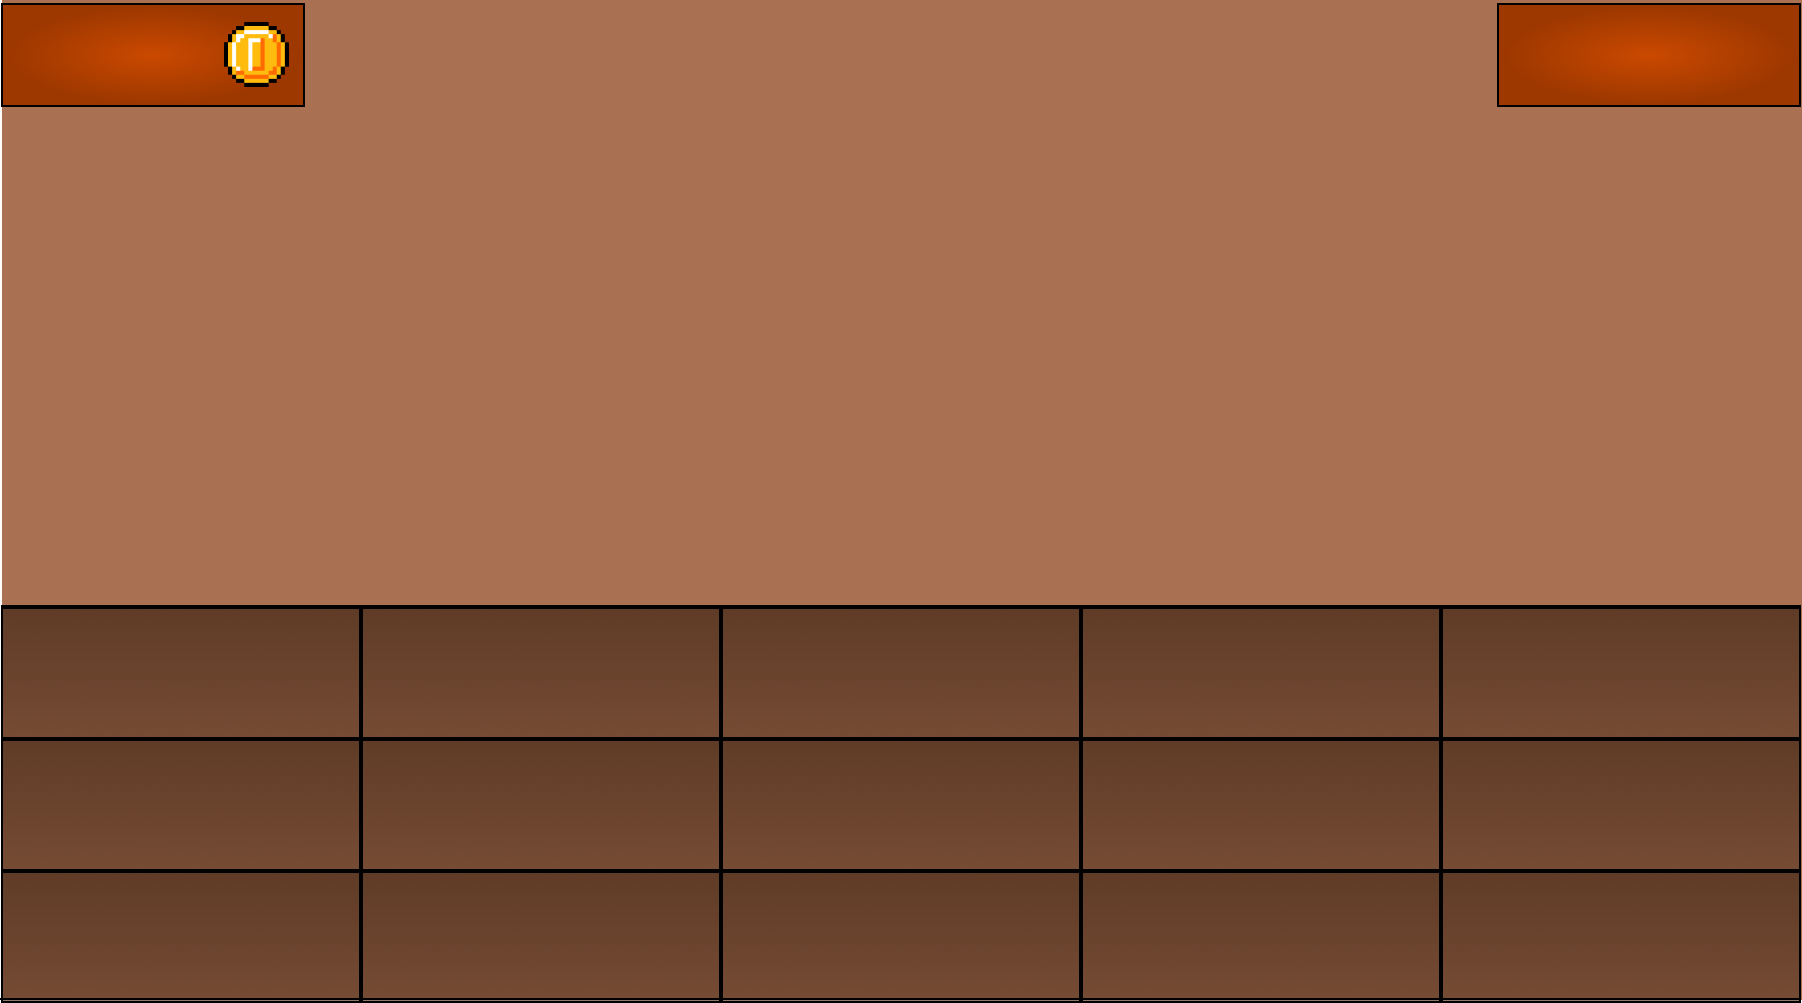
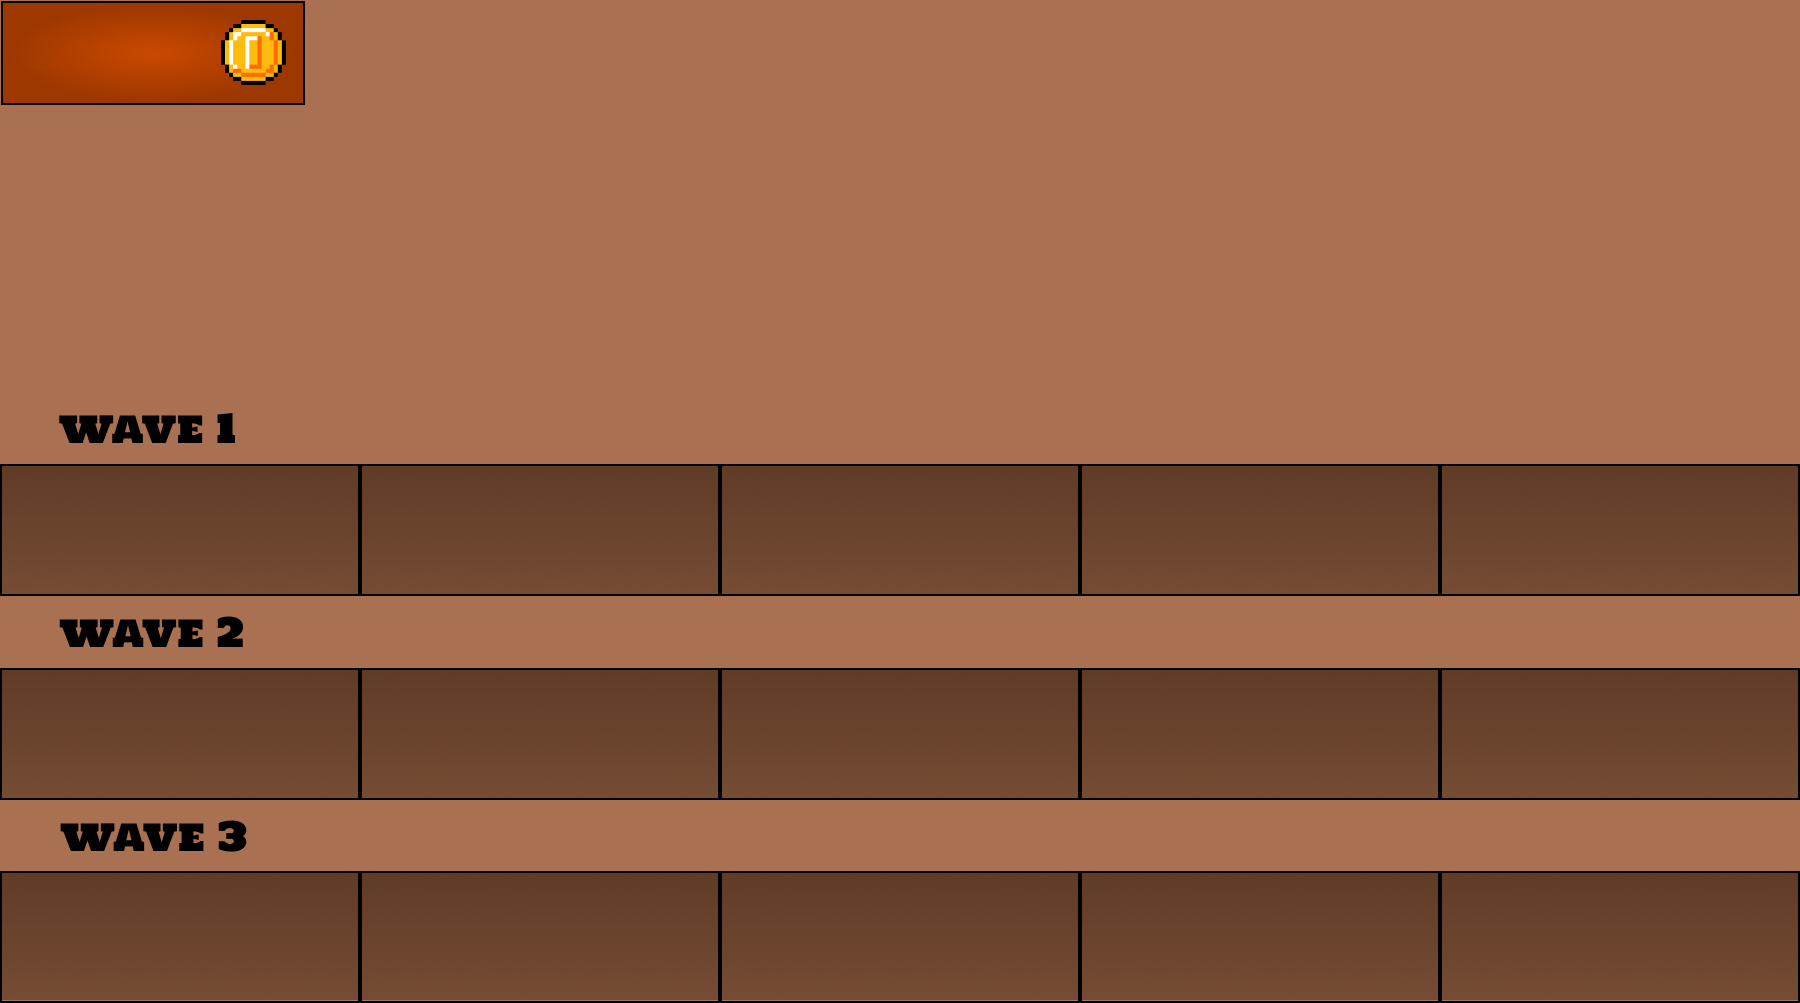
end verstka selector & add consts

Changed region(s): [[0.0, 0.4018, 1.0, 1.0], [0.8089, 0.0, 1.0, 0.1236], [0.0, 0.0, 0.1867, 0.1236]]

diff --git a/pages/attack_selector.html b/pages/attack_selector.html
@@ -10,18 +10,101 @@
 <body>
     <div class="game">
         <div class="game__field field">
-            <div class="monsters_selector">
-                <img src="../static/images/monster1_selector.png" class="monster_selector"/>
-                <img src="../static/images/monster2_selector.png" class="monster_selector"/>
-                <img src="../static/images/monster3_selector.png" class="monster_selector"/>
-                <img src="../static/images/monster4_selector.png" class="monster_selector"/>
-                <img src="../static/images/monster5_selector.png" class="monster_selector"/>
+            <div class="monsters-selector">
+                <img src="../static/images/monster1_selector.png" id="mob1" class="monster-selector"/>
+                <img src="../static/images/monster2_selector.png" id="mob2" class="monster-selector"/>
+                <img src="../static/images/monster3_selector.png" id="mob3" class="monster-selector"/>
+                <img src="../static/images/monster4_selector.png" id="mob4" class="monster-selector"/>
+                <img src="../static/images/monster5_selector.png" id="mob5" class="monster-selector"/>
             </div>
+            <div class="monsters-selected wave1">
+                <div class="mob-info">
+                    <img src="../static/images/border_for_mob_selected.png" id="mob1-1-selected" class="mob mob1" />
+                    <span id="mob1-1-count" class="mob-count">0</span>
+                    <img src="../static/images/sell_button.png" id="sell1-1" class="sell"/>
+                </div>
+                <div class="mob-info">
+                    <img src="../static/images/border_for_mob_selected.png" id="mob2-1-selected" class="mob mob2"/>
+                    <span id="mob2-1-count" class="mob-count">0</span>
+                    <img src="../static/images/sell_button.png" id="sell2-1" class="sell"/>
+                </div>
+                <div class="mob-info">
+                    <img src="../static/images/border_for_mob_selected.png" id="mob3-1-selected" class="mob mob3"/>
+                    <span id="mob3-1-count"  class="mob-count">0</span>
+                    <img src="../static/images/sell_button.png" id="sell3-1" class="sell"/>
+                </div>
+                <div class="mob-info">
+                    <img src="../static/images/border_for_mob_selected.png" id="mob4-1-selected" class="mob mob4"/>
+                    <span id="mob4-1-count"  class="mob-count">0</span>
+                    <img src="../static/images/sell_button.png" id="sell4-1" class="sell"/>
+                </div>
+                <div class="mob-info">
+                    <img src="../static/images/border_for_mob_selected.png" id="mob5-1-selected" class="mob mob5" />
+                    <span id="mob5-1-count"  class="mob-count">0</span>
+                    <img src="../static/images/sell_button.png" id="sell5-1" class="sell"/>
+                </div>
+            </div>
+            <div class="monsters-selected wave2">
+                <div class="mob-info">
+                    <img src="../static/images/border_for_mob_selected.png" id="mob1-2-selected" class="mob mob1" />
+                    <span id="mob1-2-count" class="mob-count">0</span>
+                    <img src="../static/images/sell_button.png" id="sell1-2" class="sell"/>
+                </div>
+                <div class="mob-info">
+                    <img src="../static/images/border_for_mob_selected.png" id="mob2-2-selected" class="mob mob2"/>
+                    <span id="mob2-2-count" class="mob-count">0</span>
+                    <img src="../static/images/sell_button.png" id="sell2-2" class="sell"/>
+                </div>
+                <div class="mob-info">
+                    <img src="../static/images/border_for_mob_selected.png" id="mob3-2-selected" class="mob mob3"/>
+                    <span id="mob3-2-count"  class="mob-count">0</span>
+                    <img src="../static/images/sell_button.png" id="sell3-2" class="sell"/>
+                </div>
+                <div class="mob-info">
+                    <img src="../static/images/border_for_mob_selected.png" id="mob4-2-selected" class="mob mob4"/>
+                    <span id="mob4-2-count"  class="mob-count">0</span>
+                    <img src="../static/images/sell_button.png" id="sell4-2" class="sell"/>
+                </div>
+                <div class="mob-info">
+                    <img src="../static/images/border_for_mob_selected.png" id="mob5-2-selected" class="mob mob5" />
+                    <span id="mob5-2-count"  class="mob-count">0</span>
+                    <img src="../static/images/sell_button.png" id="sell5-2" class="sell"/>
+                </div>
+            </div>
+            <div class="monsters-selected wave3">
+                <div class="mob-info">
+                    <img src="../static/images/border_for_mob_selected.png" id="mob1-3-selected" class="mob mob1" />
+                    <span id="mob1-3-count" class="mob-count">0</span>
+                    <img src="../static/images/sell_button.png" id="sell1-3" class="sell"/>
+                </div>
+                <div class="mob-info">
+                    <img src="../static/images/border_for_mob_selected.png" id="mob2-3-selected" class="mob mob2"/>
+                    <span id="mob2-3-count" class="mob-count">0</span>
+                    <img src="../static/images/sell_button.png" id="sell2-3" class="sell"/>
+                </div>
+                <div class="mob-info">
+                    <img src="../static/images/border_for_mob_selected.png" id="mob3-3-selected" class="mob mob3"/>
+                    <span id="mob3-3-count"  class="mob-count">0</span>
+                    <img src="../static/images/sell_button.png" id="sell3-3" class="sell"/>
+                </div>
+                <div class="mob-info">
+                    <img src="../static/images/border_for_mob_selected.png" id="mob4-3-selected" class="mob mob4"/>
+                    <span id="mob4-3-count"  class="mob-count">0</span>
+                    <img src="../static/images/sell_button.png" id="sell4-3" class="sell"/>
+                </div>
+                <div class="mob-info">
+                    <img src="../static/images/border_for_mob_selected.png" id="mob5-3-selected" class="mob mob5" />
+                    <span id="mob5-3-count"  class="mob-count">0</span>
+                    <img src="../static/images/sell_button.png" id="sell5-3" class="sell"/>
+                </div>
+            </div>
+            <img src="../static/images/map-button.png" class="map-button"/>
             <canvas id='canvas'></canvas>
             <span class="count-coin">100</span>
         </div>
     </div>
     <script type="application/javascript" src="../static/js/monsters.js"></script>
+    <script type="application/javascript" src="../static/js/html_to_js_const.js"></script>
     <script type="application/javascript" src="../static/js/attack_selector.js"></script>
 </body>
 

diff --git a/static/js/html_to_js_const.js b/static/js/html_to_js_const.js
@@ -1,0 +1,54 @@
+const mob1_selector = document.getElementById('mob1');
+const mob2_selector = document.getElementById('mob2');
+const mob3_selector = document.getElementById('mob3');
+const mob4_selector = document.getElementById('mob4');
+const mob5_selector = document.getElementById('mob5');
+
+const mob1_1_selected = document.getElementById('mob1-1-selected');
+const mob2_1_selected = document.getElementById('mob2-1-selected');
+const mob3_1_selected = document.getElementById('mob3-1-selected');
+const mob4_1_selected = document.getElementById('mob4-1-selected');
+const mob5_1_selected = document.getElementById('mob5-1-selected');
+const sell1_1  = document.getElementById('sell1-1');
+const sell2_1  = document.getElementById('sell1-1');
+const sell3_1  = document.getElementById('sell1-1');
+const sell4_1  = document.getElementById('sell1-1');
+const sell5_1  = document.getElementById('sell1-1');
+const mob1_1_count = document.getElementById('mob1-1-count');
+const mob2_1_count = document.getElementById('mob2-1-count');
+const mob3_1_count = document.getElementById('mob3-1-count');
+const mob4_1_count = document.getElementById('mob4-1-count');
+const mob5_1_count = document.getElementById('mob5-1-count');
+
+
+const mob1_2_selected = document.getElementById('mob1-2-selected');
+const mob2_2_selected = document.getElementById('mob2-2-selected');
+const mob3_2_selected = document.getElementById('mob3-2-selected');
+const mob4_2_selected = document.getElementById('mob4-2-selected');
+const mob5_2_selected = document.getElementById('mob5-2-selected');
+const sell1_2  = document.getElementById('sell1-1');
+const sell2_2  = document.getElementById('sell1-1');
+const sell3_2  = document.getElementById('sell1-1');
+const sell4_2  = document.getElementById('sell1-1');
+const sell5_2  = document.getElementById('sell1-1');
+const mob1_2_count = document.getElementById('mob1-2-count');
+const mob2_2_count = document.getElementById('mob2-2-count');
+const mob3_2_count = document.getElementById('mob3-2-count');
+const mob4_2_count = document.getElementById('mob4-2-count');
+const mob5_2_count = document.getElementById('mob5-2-count');
+
+const mob1_3_selected = document.getElementById('mob1-3-selected');
+const mob2_3_selected = document.getElementById('mob2-3-selected');
+const mob3_3_selected = document.getElementById('mob3-3-selected');
+const mob4_3_selected = document.getElementById('mob4-3-selected');
+const mob5_3_selected = document.getElementById('mob5-3-selected');
+const sell1_3 = document.getElementById('sell1-1');
+const sell2_3  = document.getElementById('sell1-1');
+const sell3_3  = document.getElementById('sell1-1');
+const sell4_3  = document.getElementById('sell1-1');
+const sell5_3  = document.getElementById('sell1-1');
+const mob1_3_count = document.getElementById('mob1-3-count');
+const mob2_3_count = document.getElementById('mob2-3-count');
+const mob3_3_count = document.getElementById('mob3-3-count');
+const mob4_3_count = document.getElementById('mob4-3-count');
+const mob5_3_count = document.getElementById('mob5-3-count');

diff --git a/static/css/attack_selector.css b/static/css/attack_selector.css
@@ -1,3 +1,11 @@
+.visible{
+    visibility: visible;
+}
+
+.hidden{
+    visibility: hidden;
+}
+
 body {
     height: 1080px;
     margin: 0;
@@ -28,19 +36,95 @@ body {
     font-weight: 900;
     font-size: 80px;
     color: white;
-
 }
 
-.monsters_selector{
+.map-button {
+    position: absolute;
+    margin-left: 1493px;
+    margin-top: 1px;
+    cursor: pointer;
+}
+
+.mob-count {
+    top: 0;
+    left: 10px;
+    font-weight: 900;
+    font-size: 80px;
+    color: white;
+    width: 80px;
+    text-align: right;
+}
+
+.monsters-selector {
     position: absolute;
     display: flex;
     flex-direction: row;
     margin-left: 128px;
     gap: 135px;
-    margin-top: 247px;
+    margin-top: 180px;
 }
 
-.monster_selector{
+.monster-selector {
     width: 200px;
     height: 200px;
+    cursor: pointer;
+}
+
+.monsters-selected {
+    position: absolute;
+    display: flex;
+    flex-direction: row;
+}
+
+.wave1{
+    margin-top: 464px;
+}
+
+.wave2{
+    margin-top: 668px;
+}
+
+.wave3 {
+    margin-top: 872px;
+}
+
+.mob{
+    width: 80px;
+    height: 80px;
+    margin-left: 75px;
+}
+
+.mob-info{
+    display: flex;
+    gap: 36px;
+    align-items: center;
+    height: 132px;
+    width: 360px;
+}
+
+.sell{
+    position: absolute;
+    margin-left: 282px;
+    margin-bottom: 101px;
+    cursor: pointer;
+}
+
+.mob1{
+    background: url("../images/monster1.png");
+}
+
+.mob2{
+    background: url("../images/monster2.png");
+}
+
+.mob3{
+    background: url("../images/monster3.png");
+}
+
+.mob4{
+    background: url("../images/monster4.png");
+}
+
+.mob5{
+    background: url("../images/monster5.png");
 }

diff --git a/pages/defense.html b/pages/defense.html
@@ -55,7 +55,7 @@
         <div class="popupover">
             <h1 class="over">GAME OVER</h1>
             <div class="overbuttons">
-                <img class="restart__img" src="../static/images/restart.png" id="restartgame"/>
+                <img class="restart" src="../static/images/restart.png" id="restartgame"/>
                 <a href="../pages/menu.html" class="menua">
                     <img class="menu__img" src="../static/images/menu.png" />
                 </a>

diff --git a/static/js/monster_movement.js b/static/js/monster_movement.js
@@ -152,13 +152,13 @@ function addMonster() {
 }
 
 function registerCollision(monster, GAME) {
-    if (monster.hp == 0 && monster.finish == true) {
+    if (monster.hp <= 0 && monster.finish == true) {
         let bar = document.getElementById("hp-bar");
         if (GAME.castleHP > 0) {
             bar.children[GAME.castleHP - 1].classList.add("_hide");
         }
         GAME.castleHP -= 1;
-        monster.hp -= 1;
+        monster.hp = -1000;
     }
 }
 

diff --git a/static/css/defense.css b/static/css/defense.css
@@ -353,11 +353,6 @@ body {
     transform: scale(0.9);
 }
 
-.restart__img{
-    width: 50px;
-    height: 50px;
-}
-
 .menu {
     align-items: center;
     gap: 10px;
@@ -378,4 +373,10 @@ body {
     display: flex;
     flex-direction: row;
     gap: 40px;
+}
+
+.restart{
+    cursor: pointer;
+    width: 50px;
+    height: 50px;
 }
